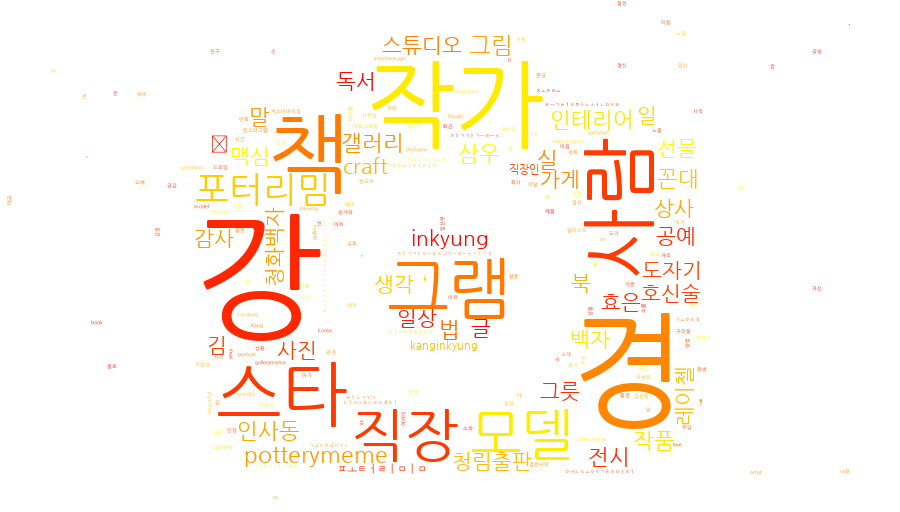
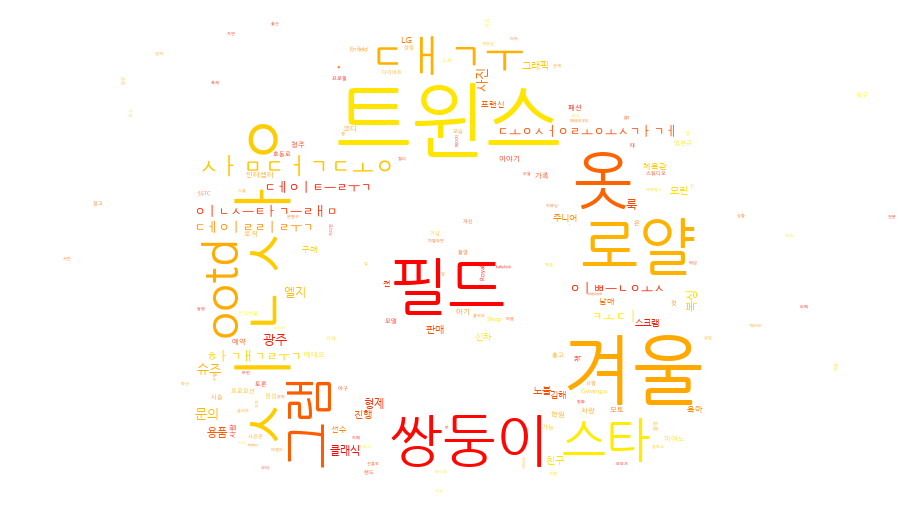
1212

Changed region(s): [[0.2178, 0.0625, 0.7778, 0.9375], [0.4044, 0.4375, 0.5911, 0.6875], [0.6222, 0.5312, 0.6533, 0.5625]]

diff --git a/HotKey_Instagram/HotKey/flask-server/templates/networks/tmp.html b/HotKey_Instagram/HotKey/flask-server/templates/networks/tmp.html
@@ -88,8 +88,8 @@
                   
 
                   // parsing and collecting nodes and edges from the python
-                  nodes = new vis.DataSet([{"color": "#aaaaaa", "font": {"color": "#000000"}, "id": "Kang", "label": "Kang", "shape": "diamond", "size": 10, "title": "\ud1a0\ud53d \uc678"}, {"color": "#820BF0", "font": {"color": "#000000"}, "id": "\ud3ec\ud130\ub9ac\ubc08", "label": "\ud3ec\ud130\ub9ac\ubc08", "shape": "diamond", "size": 20, "title": "\ud1a0\ud53d 3 : \uac15_\uacbd_\uc791\uac00_\ub3c4\uc790\uae30_\uc791\uc5c5\uc2e4"}, {"color": "#aaaaaa", "font": {"color": "#000000"}, "id": "Kyung", "label": "Kyung", "shape": "diamond", "size": 10, "title": "\ud1a0\ud53d \uc678"}, {"color": "#820BF0", "font": {"color": "#000000"}, "id": "\uc791\uac00", "label": "\uc791\uac00", "shape": "triangle", "size": 10, "title": "\ud1a0\ud53d 3 : \uac15_\uacbd_\uc791\uac00_\ub3c4\uc790\uae30_\uc791\uc5c5\uc2e4"}, {"color": "#820BF0", "font": {"color": "#000000"}, "id": "\uc791\ud488", "label": "\uc791\ud488", "shape": "triangle", "size": 10, "title": "\ud1a0\ud53d 3 : \uac15_\uacbd_\uc791\uac00_\ub3c4\uc790\uae30_\uc791\uc5c5\uc2e4"}, {"color": "#820BF0", "font": {"color": "#000000"}, "id": "\uac15", "label": "\uac15", "shape": "triangle", "size": 10, "title": "\ud1a0\ud53d 3 : \uac15_\uacbd_\uc791\uac00_\ub3c4\uc790\uae30_\uc791\uc5c5\uc2e4"}, {"color": "#820BF0", "font": {"color": "#000000"}, "id": "\uc804\uc2dc", "label": "\uc804\uc2dc", "shape": "triangle", "size": 10, "title": "\ud1a0\ud53d 3 : \uac15_\uacbd_\uc791\uac00_\ub3c4\uc790\uae30_\uc791\uc5c5\uc2e4"}, {"color": "#820BF0", "font": {"color": "#000000"}, "id": "\uc774\ub2ec", "label": "\uc774\ub2ec", "shape": "triangle", "size": 10, "title": "\ud1a0\ud53d 3 : \uac15_\uacbd_\uc791\uac00_\ub3c4\uc790\uae30_\uc791\uc5c5\uc2e4"}, {"color": "#820BF0", "font": {"color": "#000000"}, "id": "\uc774\uc7ac\uc6d0", "label": "\uc774\uc7ac\uc6d0", "shape": "diamond", "size": 10, "title": "\ud1a0\ud53d 3 : \uac15_\uacbd_\uc791\uac00_\ub3c4\uc790\uae30_\uc791\uc5c5\uc2e4"}, {"color": "#30EDE9", "font": {"color": "#000000"}, "id": "\ud55c\uad6d", "label": "\ud55c\uad6d", "shape": "diamond", "size": 10, "title": "\ud1a0\ud53d 1 : \u11bc_\uacbd_\uac15_\u11a8_\ubaa8\ub378"}, {"color": "#820BF0", "font": {"color": "#000000"}, "id": "\uc18c\uac1c", "label": "\uc18c\uac1c", "shape": "triangle", "size": 10, "title": "\ud1a0\ud53d 3 : \uac15_\uacbd_\uc791\uac00_\ub3c4\uc790\uae30_\uc791\uc5c5\uc2e4"}, {"color": "#F5B901", "font": {"color": "#000000"}, "id": "\ud6a8\uc740", "label": "\ud6a8\uc740", "shape": "diamond", "size": 10, "title": "\ud1a0\ud53d 4 : \ucc45_\uc0ac\ub78c_\uc2a4\ud0c0_\uadf8\ub7a8_\uac15"}, {"color": "#F5B901", "font": {"color": "#000000"}, "id": "\uae40", "label": "\uae40", "shape": "diamond", "size": 10, "title": "\ud1a0\ud53d 4 : \ucc45_\uc0ac\ub78c_\uc2a4\ud0c0_\uadf8\ub7a8_\uac15"}, {"color": "#820BF0", "font": {"color": "#000000"}, "id": "\ub808\uc774\uccbc", "label": "\ub808\uc774\uccbc", "shape": "diamond", "size": 10, "title": "\ud1a0\ud53d 3 : \uac15_\uacbd_\uc791\uac00_\ub3c4\uc790\uae30_\uc791\uc5c5\uc2e4"}, {"color": "#820BF0", "font": {"color": "#000000"}, "id": "\uce74\uce74\uc624", "label": "\uce74\uce74\uc624", "shape": "diamond", "size": 10, "title": "\ud1a0\ud53d 3 : \uac15_\uacbd_\uc791\uac00_\ub3c4\uc790\uae30_\uc791\uc5c5\uc2e4"}, {"color": "#aaaaaa", "font": {"color": "#000000"}, "id": "\uae40\ud604\ubbf8", "label": "\uae40\ud604\ubbf8", "shape": "diamond", "size": 10, "title": "\ud1a0\ud53d \uc678"}, {"color": "#aaaaaa", "font": {"color": "#000000"}, "id": "\uc724\uc815", "label": "\uc724\uc815", "shape": "diamond", "size": 10, "title": "\ud1a0\ud53d \uc678"}, {"color": "#aaaaaa", "font": {"color": "#000000"}, "id": "\uae40\uacbd\ud76c", "label": "\uae40\uacbd\ud76c", "shape": "diamond", "size": 10, "title": "\ud1a0\ud53d \uc678"}, {"color": "#aaaaaa", "font": {"color": "#000000"}, "id": "\ubd80\uc0b0\ubb38\ud654\ud68c\uad00", "label": "\ubd80\uc0b0\ubb38\ud654\ud68c\uad00", "shape": "diamond", "size": 20, "title": "\ud1a0\ud53d \uc678"}, {"color": "#aaaaaa", "font": {"color": "#000000"}, "id": "\ud64d\uc131", "label": "\ud64d\uc131", "shape": "diamond", "size": 20, "title": "\ud1a0\ud53d \uc678"}, {"color": "#aaaaaa", "font": {"color": "#000000"}, "id": "\uc774\uc9c0\uc218", "label": "\uc774\uc9c0\uc218", "shape": "diamond", "size": 20, "title": "\ud1a0\ud53d \uc678"}, {"color": "#aaaaaa", "font": {"color": "#000000"}, "id": "\ubc15\uc2dc\ud604", "label": "\ubc15\uc2dc\ud604", "shape": "diamond", "size": 20, "title": "\ud1a0\ud53d \uc678"}, {"color": "#aaaaaa", "font": {"color": "#000000"}, "id": "\ub370\ubbf8\uc548", "label": "\ub370\ubbf8\uc548", "shape": "diamond", "size": 20, "title": "\ud1a0\ud53d \uc678"}, {"color": "#aaaaaa", "font": {"color": "#000000"}, "id": "\uc720", "label": "\uc720", "shape": "diamond", "size": 20, "title": "\ud1a0\ud53d \uc678"}, {"color": "#aaaaaa", "font": {"color": "#000000"}, "id": "\uac08\ucc38\ub098\ubb34", "label": "\uac08\ucc38\ub098\ubb34", "shape": "diamond", "size": 10, "title": "\ud1a0\ud53d \uc678"}, {"color": "#aaaaaa", "font": {"color": "#000000"}, "id": "\uc774", "label": "\uc774", "shape": "diamond", "size": 20, "title": "\ud1a0\ud53d \uc678"}, {"color": "#aaaaaa", "font": {"color": "#000000"}, "id": "\uc548\ub3c4\ud604", "label": "\uc548\ub3c4\ud604", "shape": "diamond", "size": 10, "title": "\ud1a0\ud53d \uc678"}, {"color": "#aaaaaa", "font": {"color": "#000000"}, "id": "\uc140\ub9c8", "label": "\uc140\ub9c8", "shape": "diamond", "size": 10, "title": "\ud1a0\ud53d \uc678"}, {"color": "#aaaaaa", "font": {"color": "#000000"}, "id": "\uc6b4\uae00\ub77c\uc6b0\ubca0\uc758", "label": "\uc6b4\uae00\ub77c\uc6b0\ubca0\uc758", "shape": "diamond", "size": 10, "title": "\ud1a0\ud53d \uc678"}, {"color": "#820BF0", "font": {"color": "#000000"}, "id": "\uccad\ud654\ubc31\uc790", "label": "\uccad\ud654\ubc31\uc790", "shape": "diamond", "size": 10, "title": "\ud1a0\ud53d 3 : \uac15_\uacbd_\uc791\uac00_\ub3c4\uc790\uae30_\uc791\uc5c5\uc2e4"}, {"color": "#aaaaaa", "font": {"color": "#000000"}, "id": "\uc601\uc5b4", "label": "\uc601\uc5b4", "shape": "diamond", "size": 10, "title": "\ud1a0\ud53d \uc678"}, {"color": "#aaaaaa", "font": {"color": "#000000"}, "id": "\ubb34\uc5c8", "label": "\ubb34\uc5c8", "shape": "diamond", "size": 10, "title": "\ud1a0\ud53d \uc678"}, {"color": "#aaaaaa", "font": {"color": "#000000"}, "id": "\ub9b0", "label": "\ub9b0", "shape": "diamond", "size": 10, "title": "\ud1a0\ud53d \uc678"}, {"color": "#aaaaaa", "font": {"color": "#000000"}, "id": "\uc5d0\ub514", "label": "\uc5d0\ub514", "shape": "diamond", "size": 10, "title": "\ud1a0\ud53d \uc678"}, {"color": "#aaaaaa", "font": {"color": "#000000"}, "id": "\ubbf8\uc18c\ub140", "label": "\ubbf8\uc18c\ub140", "shape": "diamond", "size": 10, "title": "\ud1a0\ud53d \uc678"}, {"color": "#aaaaaa", "font": {"color": "#000000"}, "id": "\ud55c\uc218\ud76c", "label": "\ud55c\uc218\ud76c", "shape": "diamond", "size": 10, "title": "\ud1a0\ud53d \uc678"}]);
-                  edges = new vis.DataSet([{"color": "#92CAF8", "from": "Kang", "to": "\ud3ec\ud130\ub9ac\ubc08", "width": 5.0}, {"color": "#92CAF8", "from": "Kang", "to": "Kyung", "width": 2.0}, {"color": "#92CAF8", "from": "\ud3ec\ud130\ub9ac\ubc08", "to": "\uc791\uac00", "width": 2.795}, {"color": "#92CAF8", "from": "\ud3ec\ud130\ub9ac\ubc08", "to": "\uc791\ud488", "width": 2.615}, {"color": "#92CAF8", "from": "\ud3ec\ud130\ub9ac\ubc08", "to": "\uac15", "width": 2.21}, {"color": "#92CAF8", "from": "\ud3ec\ud130\ub9ac\ubc08", "to": "\uc804\uc2dc", "width": 2.21}, {"color": "#92CAF8", "from": "\ud3ec\ud130\ub9ac\ubc08", "to": "\uc774\ub2ec", "width": 2.12}, {"color": "#92CAF8", "from": "\ud3ec\ud130\ub9ac\ubc08", "to": "\uc774\uc7ac\uc6d0", "width": 2.03}, {"color": "#92CAF8", "from": "\ud3ec\ud130\ub9ac\ubc08", "to": "\ud55c\uad6d", "width": 2.0}, {"color": "#92CAF8", "from": "\ud3ec\ud130\ub9ac\ubc08", "to": "\uc18c\uac1c", "width": 2.03}, {"color": "#92CAF8", "from": "\ud6a8\uc740", "to": "\uae40", "width": 2.66}, {"color": "#92CAF8", "from": "\ub808\uc774\uccbc", "to": "\uce74\uce74\uc624", "width": 2.345}, {"color": "#92CAF8", "from": "\uc791\uac00", "to": "\uac15", "width": 2.3}, {"color": "#92CAF8", "from": "\uc791\uac00", "to": "\uc791\ud488", "width": 2.012}, {"color": "#92CAF8", "from": "\uae40\ud604\ubbf8", "to": "\uc724\uc815", "width": 2.0}, {"color": "#92CAF8", "from": "\uae40\ud604\ubbf8", "to": "\uae40\uacbd\ud76c", "width": 2.0}, {"color": "#92CAF8", "from": "\uc724\uc815", "to": "\uae40\uacbd\ud76c", "width": 2.0}, {"color": "#92CAF8", "from": "\ubd80\uc0b0\ubb38\ud654\ud68c\uad00", "to": "\ud64d\uc131", "width": 2.0}, {"color": "#92CAF8", "from": "\ubd80\uc0b0\ubb38\ud654\ud68c\uad00", "to": "\uc774\uc9c0\uc218", "width": 2.0}, {"color": "#92CAF8", "from": "\ubd80\uc0b0\ubb38\ud654\ud68c\uad00", "to": "\ubc15\uc2dc\ud604", "width": 2.0}, {"color": "#92CAF8", "from": "\ubd80\uc0b0\ubb38\ud654\ud68c\uad00", "to": "\ub370\ubbf8\uc548", "width": 2.0}, {"color": "#92CAF8", "from": "\ubd80\uc0b0\ubb38\ud654\ud68c\uad00", "to": "\uc720", "width": 2.0}, {"color": "#92CAF8", "from": "\ud64d\uc131", "to": "\uc774\uc9c0\uc218", "width": 2.0}, {"color": "#92CAF8", "from": "\ud64d\uc131", "to": "\ubc15\uc2dc\ud604", "width": 2.0}, {"color": "#92CAF8", "from": "\ud64d\uc131", "to": "\ub370\ubbf8\uc548", "width": 2.0}, {"color": "#92CAF8", "from": "\ud64d\uc131", "to": "\uc720", "width": 2.0}, {"color": "#92CAF8", "from": "\uc774\uc9c0\uc218", "to": "\ubc15\uc2dc\ud604", "width": 2.0}, {"color": "#92CAF8", "from": "\uc774\uc9c0\uc218", "to": "\ub370\ubbf8\uc548", "width": 2.0}, {"color": "#92CAF8", "from": "\uc774\uc9c0\uc218", "to": "\uc720", "width": 2.0}, {"color": "#92CAF8", "from": "\ubc15\uc2dc\ud604", "to": "\ub370\ubbf8\uc548", "width": 2.0}, {"color": "#92CAF8", "from": "\ubc15\uc2dc\ud604", "to": "\uc720", "width": 2.0}, {"color": "#92CAF8", "from": "\ub370\ubbf8\uc548", "to": "\uc720", "width": 2.0}, {"color": "#92CAF8", "from": "\uac08\ucc38\ub098\ubb34", "to": "\uc774", "width": 2.0}, {"color": "#92CAF8", "from": "\uac08\ucc38\ub098\ubb34", "to": "\uc548\ub3c4\ud604", "width": 2.0}, {"color": "#92CAF8", "from": "\uac08\ucc38\ub098\ubb34", "to": "\uc140\ub9c8", "width": 2.0}, {"color": "#92CAF8", "from": "\uac08\ucc38\ub098\ubb34", "to": "\uc6b4\uae00\ub77c\uc6b0\ubca0\uc758", "width": 2.0}, {"color": "#92CAF8", "from": "\uc774", "to": "\uc548\ub3c4\ud604", "width": 2.0}, {"color": "#92CAF8", "from": "\uc774", "to": "\uc140\ub9c8", "width": 2.0}, {"color": "#92CAF8", "from": "\uc774", "to": "\uc6b4\uae00\ub77c\uc6b0\ubca0\uc758", "width": 2.0}, {"color": "#92CAF8", "from": "\uc774", "to": "\uccad\ud654\ubc31\uc790", "width": 2.0}, {"color": "#92CAF8", "from": "\uc548\ub3c4\ud604", "to": "\uc140\ub9c8", "width": 2.0}, {"color": "#92CAF8", "from": "\uc548\ub3c4\ud604", "to": "\uc6b4\uae00\ub77c\uc6b0\ubca0\uc758", "width": 2.0}, {"color": "#92CAF8", "from": "\uc140\ub9c8", "to": "\uc6b4\uae00\ub77c\uc6b0\ubca0\uc758", "width": 2.0}, {"color": "#92CAF8", "from": "\uc601\uc5b4", "to": "\ubb34\uc5c8", "width": 2.0}, {"color": "#92CAF8", "from": "\ub9b0", "to": "\uc5d0\ub514", "width": 2.0}, {"color": "#92CAF8", "from": "\ub9b0", "to": "\ubbf8\uc18c\ub140", "width": 2.0}, {"color": "#92CAF8", "from": "\ub9b0", "to": "\ud55c\uc218\ud76c", "width": 2.0}, {"color": "#92CAF8", "from": "\uc5d0\ub514", "to": "\ubbf8\uc18c\ub140", "width": 2.0}, {"color": "#92CAF8", "from": "\uc5d0\ub514", "to": "\ud55c\uc218\ud76c", "width": 2.0}, {"color": "#92CAF8", "from": "\ubbf8\uc18c\ub140", "to": "\ud55c\uc218\ud76c", "width": 2.0}]);
+                  nodes = new vis.DataSet([{"color": "#EC1C24", "font": {"color": "#000000"}, "id": "\ubd81\uad6c", "label": "\ubd81\uad6c", "shape": "diamond", "size": 10, "title": "\ud1a0\ud53d 5 : \ud544\ub4dc_\ub85c\uc584_\uad11\uc8fc_\ubb38\uc758_\uc0ac\uc9c4"}, {"color": "#EC1C24", "font": {"color": "#000000"}, "id": "\ud638\ub3d9\ub85c", "label": "\ud638\ub3d9\ub85c", "shape": "diamond", "size": 10, "title": "\ud1a0\ud53d 5 : \ud544\ub4dc_\ub85c\uc584_\uad11\uc8fc_\ubb38\uc758_\uc0ac\uc9c4"}, {"color": "#EC1C24", "font": {"color": "#000000"}, "id": "\uad11\uc8fc", "label": "\uad11\uc8fc", "shape": "diamond", "size": 10, "title": "\ud1a0\ud53d 5 : \ud544\ub4dc_\ub85c\uc584_\uad11\uc8fc_\ubb38\uc758_\uc0ac\uc9c4"}, {"color": "#34EC3C", "font": {"color": "#000000"}, "id": "\uc9c4\ud765\ub85c", "label": "\uc9c4\ud765\ub85c", "shape": "diamond", "size": 10, "title": "\ud1a0\ud53d 2 : \ud2b8\uc708\uc2a4_\ub2e4\uc774\uc5b4\ud2b8_\uc2dc\uac04_\uc0ac\ub78c_\ud074\ub9ad"}, {"color": "#EC1C24", "font": {"color": "#000000"}, "id": "\uc740\ud3c9\uad6c", "label": "\uc740\ud3c9\uad6c", "shape": "diamond", "size": 10, "title": "\ud1a0\ud53d 5 : \ud544\ub4dc_\ub85c\uc584_\uad11\uc8fc_\ubb38\uc758_\uc0ac\uc9c4"}, {"color": "#34EC3C", "font": {"color": "#000000"}, "id": "\uc11c\uc728\uc2dc", "label": "\uc11c\uc728\uc2dc", "shape": "diamond", "size": 10, "title": "\ud1a0\ud53d 2 : \ud2b8\uc708\uc2a4_\ub2e4\uc774\uc5b4\ud2b8_\uc2dc\uac04_\uc0ac\ub78c_\ud074\ub9ad"}, {"color": "#EC1C24", "font": {"color": "#000000"}, "id": "\ucee8\ud2f0\ub128\ud0c8", "label": "\ucee8\ud2f0\ub128\ud0c8", "shape": "diamond", "size": 10, "title": "\ud1a0\ud53d 5 : \ud544\ub4dc_\ub85c\uc584_\uad11\uc8fc_\ubb38\uc758_\uc0ac\uc9c4"}, {"color": "#aaaaaa", "font": {"color": "#000000"}, "id": "\ud504\ub798", "label": "\ud504\ub798", "shape": "diamond", "size": 30, "title": "\ud1a0\ud53d \uc678"}, {"color": "#aaaaaa", "font": {"color": "#000000"}, "id": "\uae40\uc601\uc9c4", "label": "\uae40\uc601\uc9c4", "shape": "diamond", "size": 30, "title": "\ud1a0\ud53d \uc678"}, {"color": "#aaaaaa", "font": {"color": "#000000"}, "id": "\ud544\ub9bd", "label": "\ud544\ub9bd", "shape": "diamond", "size": 30, "title": "\ud1a0\ud53d \uc678"}, {"color": "#aaaaaa", "font": {"color": "#000000"}, "id": "\uc874\uc2a8", "label": "\uc874\uc2a8", "shape": "diamond", "size": 30, "title": "\ud1a0\ud53d \uc678"}, {"color": "#aaaaaa", "font": {"color": "#000000"}, "id": "\ucf54\ub808\ud0c0", "label": "\ucf54\ub808\ud0c0", "shape": "diamond", "size": 20, "title": "\ud1a0\ud53d \uc678"}, {"color": "#34EC3C", "font": {"color": "#000000"}, "id": "\ud2b8\uc708\uc2a4", "label": "\ud2b8\uc708\uc2a4", "shape": "diamond", "size": 20, "title": "\ud1a0\ud53d 2 : \ud2b8\uc708\uc2a4_\ub2e4\uc774\uc5b4\ud2b8_\uc2dc\uac04_\uc0ac\ub78c_\ud074\ub9ad"}, {"color": "#aaaaaa", "font": {"color": "#000000"}, "id": "\ud504\ub79c\uc2e0", "label": "\ud504\ub79c\uc2e0", "shape": "diamond", "size": 20, "title": "\ud1a0\ud53d \uc678"}, {"color": "#aaaaaa", "font": {"color": "#000000"}, "id": "\ubc30\ub9ac\uc5b8", "label": "\ubc30\ub9ac\uc5b8", "shape": "diamond", "size": 20, "title": "\ud1a0\ud53d \uc678"}, {"color": "#aaaaaa", "font": {"color": "#000000"}, "id": "\ud0b9", "label": "\ud0b9", "shape": "diamond", "size": 20, "title": "\ud1a0\ud53d \uc678"}, {"color": "#aaaaaa", "font": {"color": "#000000"}, "id": "\uc2a4\ucf67", "label": "\uc2a4\ucf67", "shape": "diamond", "size": 20, "title": "\ud1a0\ud53d \uc678"}, {"color": "#aaaaaa", "font": {"color": "#000000"}, "id": "\ubaa8\ub9b0", "label": "\ubaa8\ub9b0", "shape": "diamond", "size": 10, "title": "\ud1a0\ud53d \uc678"}, {"color": "#aaaaaa", "font": {"color": "#000000"}, "id": "\ubca0\ud788\ud130", "label": "\ubca0\ud788\ud130", "shape": "diamond", "size": 10, "title": "\ud1a0\ud53d \uc678"}]);
+                  edges = new vis.DataSet([{"color": "#92CAF8", "from": "\ubd81\uad6c", "to": "\ud638\ub3d9\ub85c", "width": 5.0}, {"color": "#92CAF8", "from": "\ubd81\uad6c", "to": "\uad11\uc8fc", "width": 4.258823529411765}, {"color": "#92CAF8", "from": "\uad11\uc8fc", "to": "\ud638\ub3d9\ub85c", "width": 4.258823529411765}, {"color": "#92CAF8", "from": "\uc9c4\ud765\ub85c", "to": "\uc740\ud3c9\uad6c", "width": 3.411764705882353}, {"color": "#92CAF8", "from": "\uc9c4\ud765\ub85c", "to": "\uc11c\uc728\uc2dc", "width": 2.776470588235294}, {"color": "#92CAF8", "from": "\uc11c\uc728\uc2dc", "to": "\uc740\ud3c9\uad6c", "width": 2.7058823529411766}, {"color": "#92CAF8", "from": "\uc740\ud3c9\uad6c", "to": "\ucee8\ud2f0\ub128\ud0c8", "width": 2.0352941176470587}, {"color": "#92CAF8", "from": "\ud504\ub798", "to": "\uae40\uc601\uc9c4", "width": 2.0}, {"color": "#92CAF8", "from": "\ud504\ub798", "to": "\ud544\ub9bd", "width": 2.0}, {"color": "#92CAF8", "from": "\ud504\ub798", "to": "\uc874\uc2a8", "width": 2.0}, {"color": "#92CAF8", "from": "\ud504\ub798", "to": "\ucf54\ub808\ud0c0", "width": 2.0}, {"color": "#92CAF8", "from": "\ud504\ub798", "to": "\ud2b8\uc708\uc2a4", "width": 2.0}, {"color": "#92CAF8", "from": "\ud504\ub798", "to": "\ud504\ub79c\uc2e0", "width": 2.0}, {"color": "#92CAF8", "from": "\ud504\ub798", "to": "\ubc30\ub9ac\uc5b8", "width": 2.0}, {"color": "#92CAF8", "from": "\ud504\ub798", "to": "\ud0b9", "width": 2.0}, {"color": "#92CAF8", "from": "\ud504\ub798", "to": "\uc2a4\ucf67", "width": 2.0}, {"color": "#92CAF8", "from": "\ud504\ub798", "to": "\ubaa8\ub9b0", "width": 2.0}, {"color": "#92CAF8", "from": "\ud504\ub798", "to": "\ubca0\ud788\ud130", "width": 2.0}, {"color": "#92CAF8", "from": "\uae40\uc601\uc9c4", "to": "\ud544\ub9bd", "width": 2.0}, {"color": "#92CAF8", "from": "\uae40\uc601\uc9c4", "to": "\uc874\uc2a8", "width": 2.0}, {"color": "#92CAF8", "from": "\uae40\uc601\uc9c4", "to": "\ucf54\ub808\ud0c0", "width": 2.0}, {"color": "#92CAF8", "from": "\uae40\uc601\uc9c4", "to": "\ud2b8\uc708\uc2a4", "width": 2.0}, {"color": "#92CAF8", "from": "\uae40\uc601\uc9c4", "to": "\ud504\ub79c\uc2e0", "width": 2.0}, {"color": "#92CAF8", "from": "\uae40\uc601\uc9c4", "to": "\ubc30\ub9ac\uc5b8", "width": 2.0}, {"color": "#92CAF8", "from": "\uae40\uc601\uc9c4", "to": "\ud0b9", "width": 2.0}, {"color": "#92CAF8", "from": "\uae40\uc601\uc9c4", "to": "\uc2a4\ucf67", "width": 2.0}, {"color": "#92CAF8", "from": "\uae40\uc601\uc9c4", "to": "\ubaa8\ub9b0", "width": 2.0}, {"color": "#92CAF8", "from": "\uae40\uc601\uc9c4", "to": "\ubca0\ud788\ud130", "width": 2.0}, {"color": "#92CAF8", "from": "\ud544\ub9bd", "to": "\uc874\uc2a8", "width": 2.0}, {"color": "#92CAF8", "from": "\ud544\ub9bd", "to": "\ucf54\ub808\ud0c0", "width": 2.0}, {"color": "#92CAF8", "from": "\ud544\ub9bd", "to": "\ud2b8\uc708\uc2a4", "width": 2.0}, {"color": "#92CAF8", "from": "\ud544\ub9bd", "to": "\ud504\ub79c\uc2e0", "width": 2.0}, {"color": "#92CAF8", "from": "\ud544\ub9bd", "to": "\ubc30\ub9ac\uc5b8", "width": 2.0}, {"color": "#92CAF8", "from": "\ud544\ub9bd", "to": "\ud0b9", "width": 2.0}, {"color": "#92CAF8", "from": "\ud544\ub9bd", "to": "\uc2a4\ucf67", "width": 2.0}, {"color": "#92CAF8", "from": "\ud544\ub9bd", "to": "\ubaa8\ub9b0", "width": 2.0}, {"color": "#92CAF8", "from": "\ud544\ub9bd", "to": "\ubca0\ud788\ud130", "width": 2.0}, {"color": "#92CAF8", "from": "\uc874\uc2a8", "to": "\ucf54\ub808\ud0c0", "width": 2.0}, {"color": "#92CAF8", "from": "\uc874\uc2a8", "to": "\ud2b8\uc708\uc2a4", "width": 2.0}, {"color": "#92CAF8", "from": "\uc874\uc2a8", "to": "\ud504\ub79c\uc2e0", "width": 2.0}, {"color": "#92CAF8", "from": "\uc874\uc2a8", "to": "\ubc30\ub9ac\uc5b8", "width": 2.0}, {"color": "#92CAF8", "from": "\uc874\uc2a8", "to": "\ud0b9", "width": 2.0}, {"color": "#92CAF8", "from": "\uc874\uc2a8", "to": "\uc2a4\ucf67", "width": 2.0}, {"color": "#92CAF8", "from": "\uc874\uc2a8", "to": "\ubaa8\ub9b0", "width": 2.0}, {"color": "#92CAF8", "from": "\uc874\uc2a8", "to": "\ubca0\ud788\ud130", "width": 2.0}, {"color": "#92CAF8", "from": "\ucf54\ub808\ud0c0", "to": "\ud2b8\uc708\uc2a4", "width": 2.0}, {"color": "#92CAF8", "from": "\ucf54\ub808\ud0c0", "to": "\ud504\ub79c\uc2e0", "width": 2.0}, {"color": "#92CAF8", "from": "\ucf54\ub808\ud0c0", "to": "\ubc30\ub9ac\uc5b8", "width": 2.0}, {"color": "#92CAF8", "from": "\ucf54\ub808\ud0c0", "to": "\ud0b9", "width": 2.0}, {"color": "#92CAF8", "from": "\ucf54\ub808\ud0c0", "to": "\uc2a4\ucf67", "width": 2.0}]);
 
                   nodeColors = {};
                   allNodes = nodes.get({ returnType: "Object" });

diff --git a/HotKey_Instagram/HotKey/flask-server/lda.py b/HotKey_Instagram/HotKey/flask-server/lda.py
@@ -166,22 +166,22 @@ def sklda(plaintext, filedir='../react-client/src/visualization/lda_results/', k
 
     # 워드클라우드 생성
         terms = kiwi_vectorizer.get_feature_names()
-        terms_count = 200
+        # terms_count = 200 #1212수정 - 세윤
 
         for idx, topic in enumerate(lda.components_):
             print('Topic# ', idx+1)
             abs_topic = abs(topic)
             topic_terms = [[terms[i], topic[i]]
-                           for i in abs_topic.argsort()[:-terms_count-1:-1]]
+                           for i in abs_topic.argsort()[:-len(topic)-1:-1]]
             topic_terms_sorted = [[terms[i], topic[i]]
-                                  for i in abs_topic.argsort()[:-terms_count - 1:-1]]
+                                  for i in abs_topic.argsort()[:-len(topic) - 1:-1]]
             topic_words = []
-            for i in range(terms_count):
+            for i in range(len(topic)):
                 topic_words.append(topic_terms_sorted[i][0])
             # print(','.join(word for word in topic_words))
             dict_word_frequency = {}
 
-            for i in range(terms_count):
+            for i in range(len(topic)):
                 dict_word_frequency[topic_terms_sorted[i]
                                     [0]] = topic_terms_sorted[i][1]
             wc = WordCloud(background_color="white", colormap='autumn', mask=mask[idx], max_words=100,
@@ -189,7 +189,7 @@ def sklda(plaintext, filedir='../react-client/src/visualization/lda_results/', k
             wc.generate_from_frequencies(dict_word_frequency)
             # wc.to_file(filename=f'./templates/lda_results/Topic#{idx+1}.png')
             # 1212수정_세윤
-            wc.to_file(filename=filedir+keyword+str(idx+1)+'.png')
+            wc.to_file(filename=filedir+keyword+str(idx)+'.png')
 
         print("done in %0.3fs." % (time() - t0))
         print("in total, %0.3fs." % (time() - t1))
